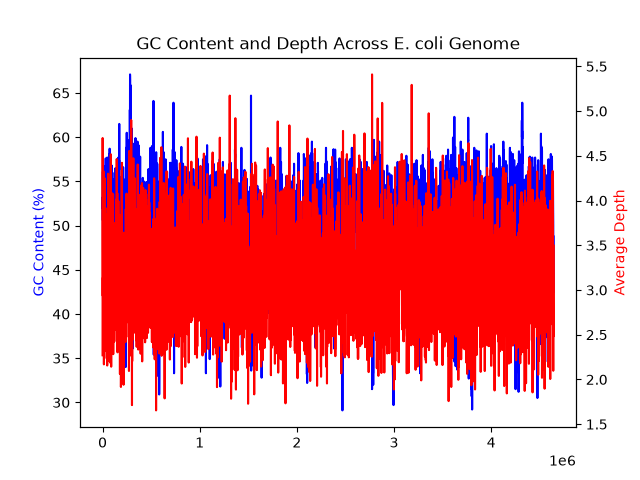
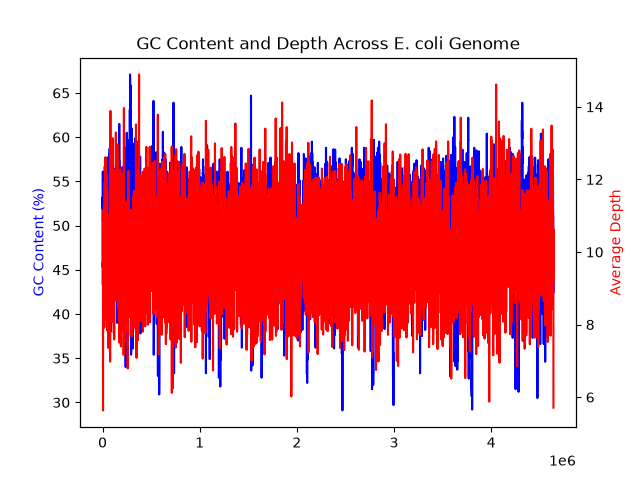
add samtools depth pipeline, finish capstone plot

diff --git a/projects/genome_gc_pipeline/capstone_gc_depth.py b/projects/genome_gc_pipeline/capstone_gc_depth.py
@@ -3,7 +3,7 @@ import numpy as np
 import matplotlib.pyplot as plt
 
 gc_df = pd.read_csv("gc_content.csv")
-depth_df = pd.read_csv("04_samtools/depth.txt", sep="\t", names=["chrom","position", "depth"])
+depth_df = pd.read_csv("depth.txt", sep="\t", names=["chrom","position", "depth"])
 depth_df["window"] = depth_df["position"] // 1000
 windowed_depth = depth_df.groupby("window")["depth"].mean()
 gc_df["avg_depth"] = windowed_depth.values 
